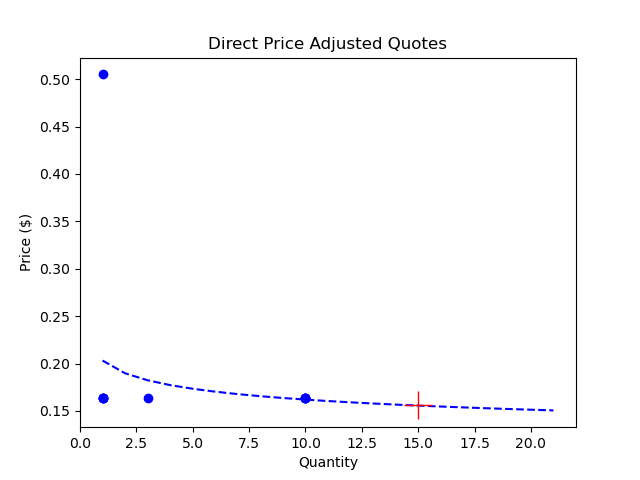
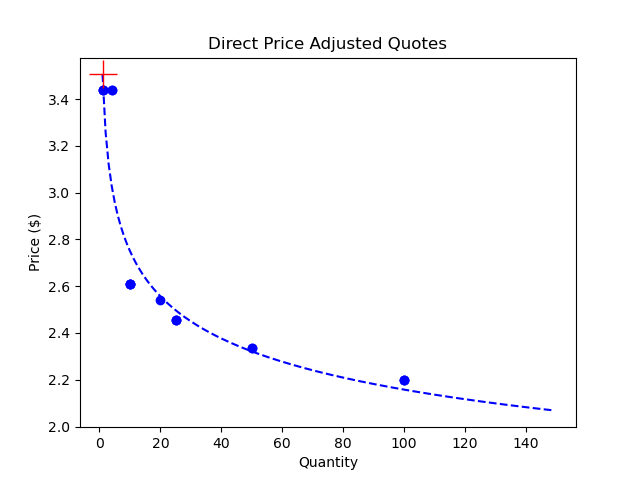
fixing sub 100 pieces problem

diff --git a/pnsearch/views.py b/pnsearch/views.py
@@ -57,7 +57,7 @@ def findBestPrices(points,chosenQuantity):
 
 
 
-def createPowerTrendLine(quantities,prices,chosenQuantity):    
+def createPowerTrendLine(quantities,prices,chosenQuantity,graphQuantity):    
     #y = ax^b
     #ln(y) = b*(ln(x)) + ln(a)
     logQuantities,logPrices = [],[]
@@ -70,10 +70,8 @@ def createPowerTrendLine(quantities,prices,chosenQuantity):
     b,lna = np.polyfit(logQuantities,logPrices,1)
     a = np.exp(lna)
     x,y = [],[]
-    bitSize = int(chosenQuantity/100)
-    if bitSize == 0:
-        bitSize = 1
-    for i in range(1,int(chosenQuantity*1.5),bitSize):
+
+    for i in range(1,int(graphQuantity*1.5),int(graphQuantity/100)):
         x += [i]
         y += [a*(i**b)]
    
@@ -92,8 +90,13 @@ def output(request):
     #user inputs
     pn = str(request.GET['pn'])
     chosenQuantity = int(request.GET['quantity'])
+    if chosenQuantity < 100:
+        graphQuantity = 100
+    else:
+        graphQuantity = chosenQuantity
+
     points = grabPrices(pn)
-    quantities,prices = findBestPrices(points,chosenQuantity)
+    quantities,prices = findBestPrices(points,graphQuantity)
 
     if len(quantities) <= 1:
         xTrend,yTrend,priceEstimate = [],[],0
@@ -101,7 +104,7 @@ def output(request):
         page = 'pnsearch/output - error no data.html'
 
     if len(quantities) > 1:
-        xTrend,yTrend,priceEstimate = createPowerTrendLine(quantities,prices,chosenQuantity)
+        xTrend,yTrend,priceEstimate = createPowerTrendLine(quantities,prices,chosenQuantity,graphQuantity)
         extraX, extraY = [],[]
         for i in range(len(xTrend)):
             if i%int(len(xTrend)/5) == 0 and xTrend[i]<25000:
